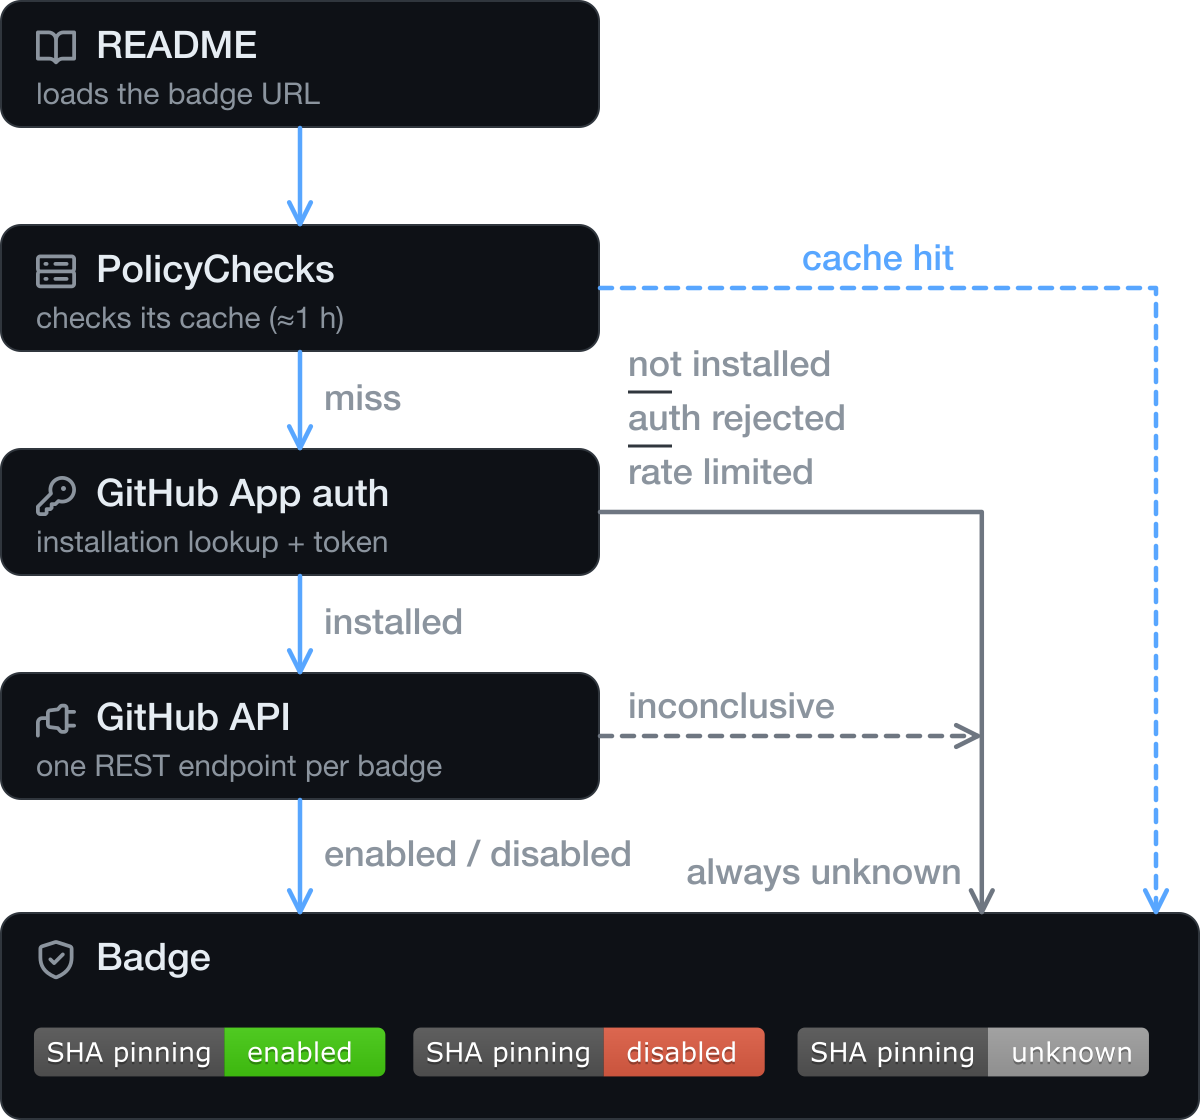
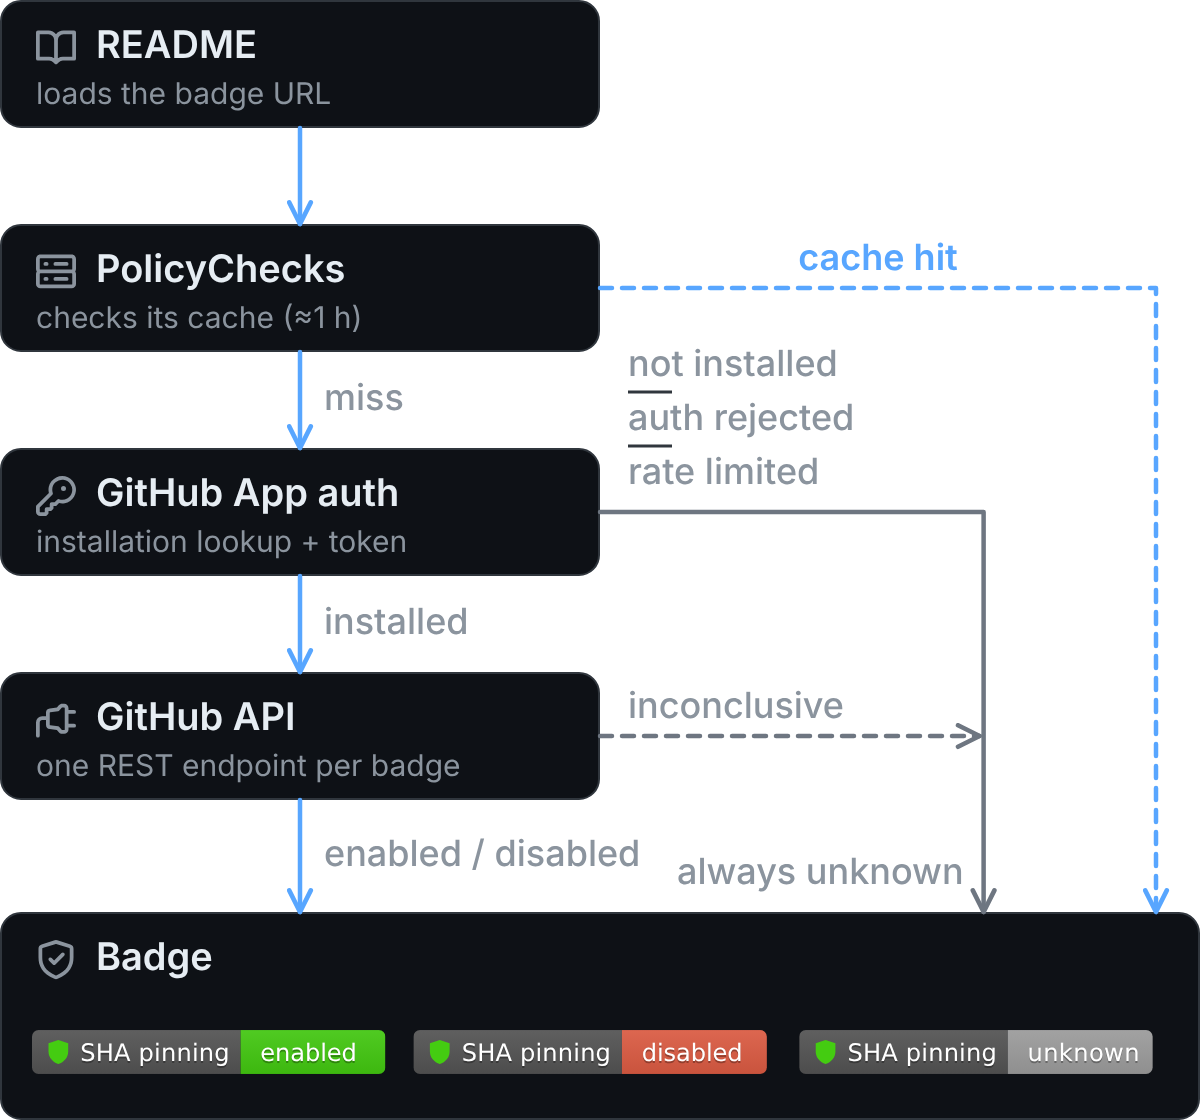
docs: regenerate README diagrams with the new badge
Re-run the docs/assets generators so the how-it-works and setting-vs-badge
graphics show the badges as the service now renders them, with the shield
logo in the label. Replace SHA-pinning-enabled.png with a 2x export of the
current "enabled" badge for the same reason.

The wider badge no longer fit its cards, so the generators now measure it
instead of assuming a fixed width: setting-vs-badge centres the badge by its
real width (at 1.6x instead of 1.8x), and how-it-works scales the three-badge
row down uniformly when it would overrun the card.

Claude-Session: https://claude.ai/code/session_01H7fkeCZY5LTpdrC2R6p36k

diff --git a/docs/assets/generators/how-it-works.py b/docs/assets/generators/how-it-works.py
@@ -81,7 +81,8 @@ TITLE_PX = 19        # card titles
 SUB_PX = 15          # card subtitles
 LABEL_PX = 18        # edge labels ("miss", "cache hit", ...)
 ICON_PX = 20         # card icons
-BADGE_SCALE = 1.22   # badges are 20 px tall natively
+BADGE_SCALE = 1.22   # badges are 20 px tall natively (upper bound; see fit below)
+BADGE_ROW_INSET = 16 # minimum space between the badge row and the card edges
 
 # =========================================================================== #
 # Layout (1x units)
@@ -149,8 +150,8 @@ def edge(points: list[tuple[float, float]], color: str, marker: str, dashed: boo
     )
 
 
-def chip(svg: str, x: float, cy: float) -> str:
-    return f'<g transform="translate({x},{cy - 10 * BADGE_SCALE}) scale({BADGE_SCALE})">{svg}</g>'
+def chip(svg: str, x: float, cy: float, scale: float = BADGE_SCALE) -> str:
+    return f'<g transform="translate({x},{cy - 10 * scale}) scale({scale})">{svg}</g>'
 
 
 def build(theme: Theme, badges: dict[BadgeState, str]) -> str:
@@ -173,8 +174,13 @@ def build(theme: Theme, badges: dict[BadgeState, str]) -> str:
 
     # Badge card: full width, the three real badges centred in a row.
     order: tuple[BadgeState, ...] = ("enabled", "disabled", "unknown")
-    widths = [badge_width(badges[k]) * BADGE_SCALE for k in order]
-    row_w = sum(widths) + CHIP_GAP * (len(order) - 1)
+    # Shrink the badges uniformly if the row would not fit inside the card;
+    # the badge width depends on the renderer (label text, logo slot), not on us.
+    native_w = sum(badge_width(badges[k]) for k in order)
+    gaps_w = CHIP_GAP * (len(order) - 1)
+    badge_scale = min(BADGE_SCALE, (W - 2 * BADGE_ROW_INSET - gaps_w) / native_w)
+    widths = [badge_width(badges[k]) * badge_scale for k in order]
+    row_w = sum(widths) + gaps_w
     xs: list[float] = []
     cursor = (W - row_w) / 2
     for w in widths:
@@ -187,7 +193,7 @@ def build(theme: Theme, badges: dict[BadgeState, str]) -> str:
         f'fill="{t["panel"]}" stroke="{t["border"]}"/>'
         + icon("shield-check", 18, Y_BADGE + 14, t["muted"], ICON_PX)
         + text(48, Y_BADGE + 29, "Badge", size=TITLE_PX, fill=t["fg"], weight="600")
-        + "".join(chip(badges[k], x, chips_cy) for k, x in zip(order, xs))
+        + "".join(chip(badges[k], x, chips_cy, badge_scale) for k, x in zip(order, xs))
     )
 
     card_right = CARD_X + CARD_W

diff --git a/docs/assets/generators/setting-vs-badge.py b/docs/assets/generators/setting-vs-badge.py
@@ -103,6 +103,7 @@ from common import (  # noqa: E402  (import after sys.path tweak)
     ASSETS_DIR,
     THEMES,
     Theme,
+    badge_width,
     icon,
     pad_badge,
     render_badges,
@@ -155,7 +156,7 @@ TITLE_PX = 18            # card header: "Settings › Actions", "README.md"
 PILL_PX = 15             # "Admins only" / "Public"
 CONNECTOR_PX = 19        # "PolicyChecks" above the arrow
 CONNECTOR_SUB_PX = 17    # "mirrors it" below the arrow
-BADGE_SCALE = 1.8        # badge is 20 px tall natively; 1.8 -> 36 px, text ~20 px
+BADGE_SCALE = 1.6        # badge is 20 px tall natively; 1.6 -> 32 px, text ~18 px
 
 # =========================================================================== #
 # Layout (1x units)
@@ -308,7 +309,7 @@ def build(theme: Theme, badge_svg: str) -> str:
     )
 
     # -- right card: the badge ----------------------------------------------
-    badge_w = 132 * BADGE_SCALE  # the SHA-pinning "enabled" badge is 132x20 natively
+    badge_w = badge_width(badge_svg) * BADGE_SCALE  # measured: the badge gains width with its logo
     badge_h = 20 * BADGE_SCALE
     badge_x = right_x + (RIGHT_W - badge_w) / 2
     badge_y = body_cy - badge_h / 2
